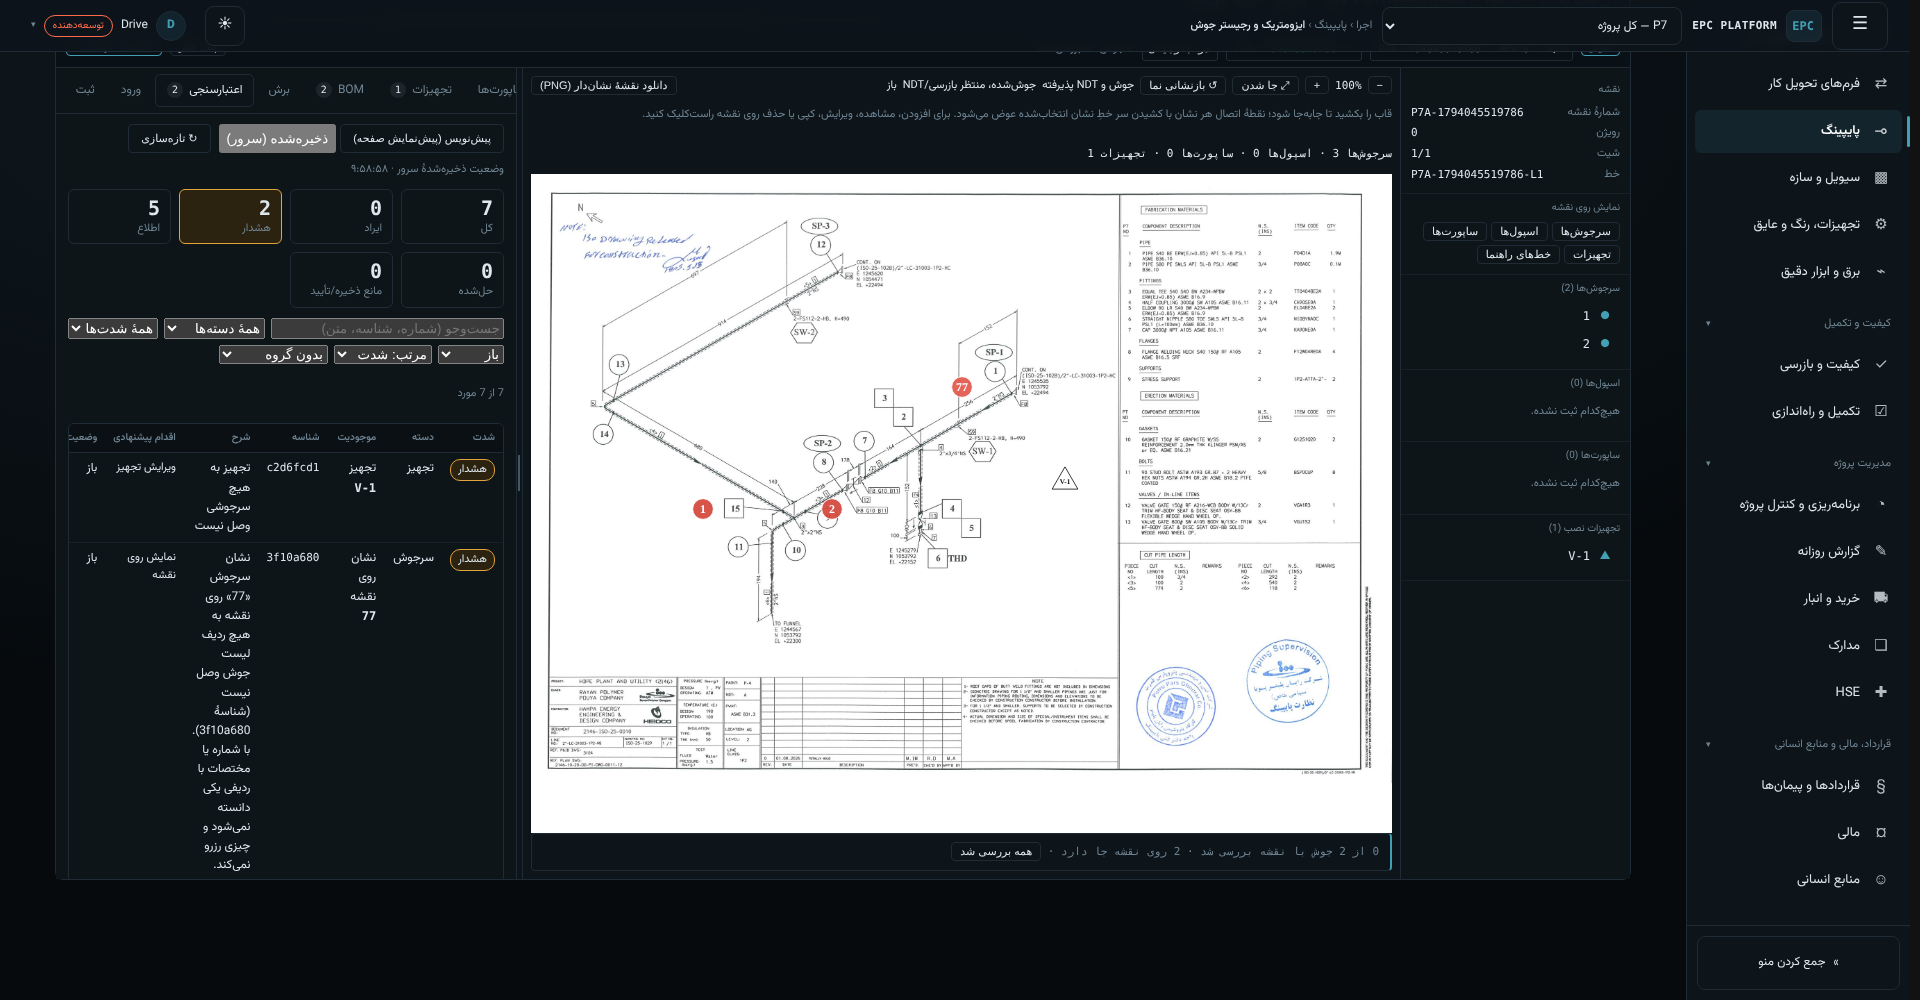
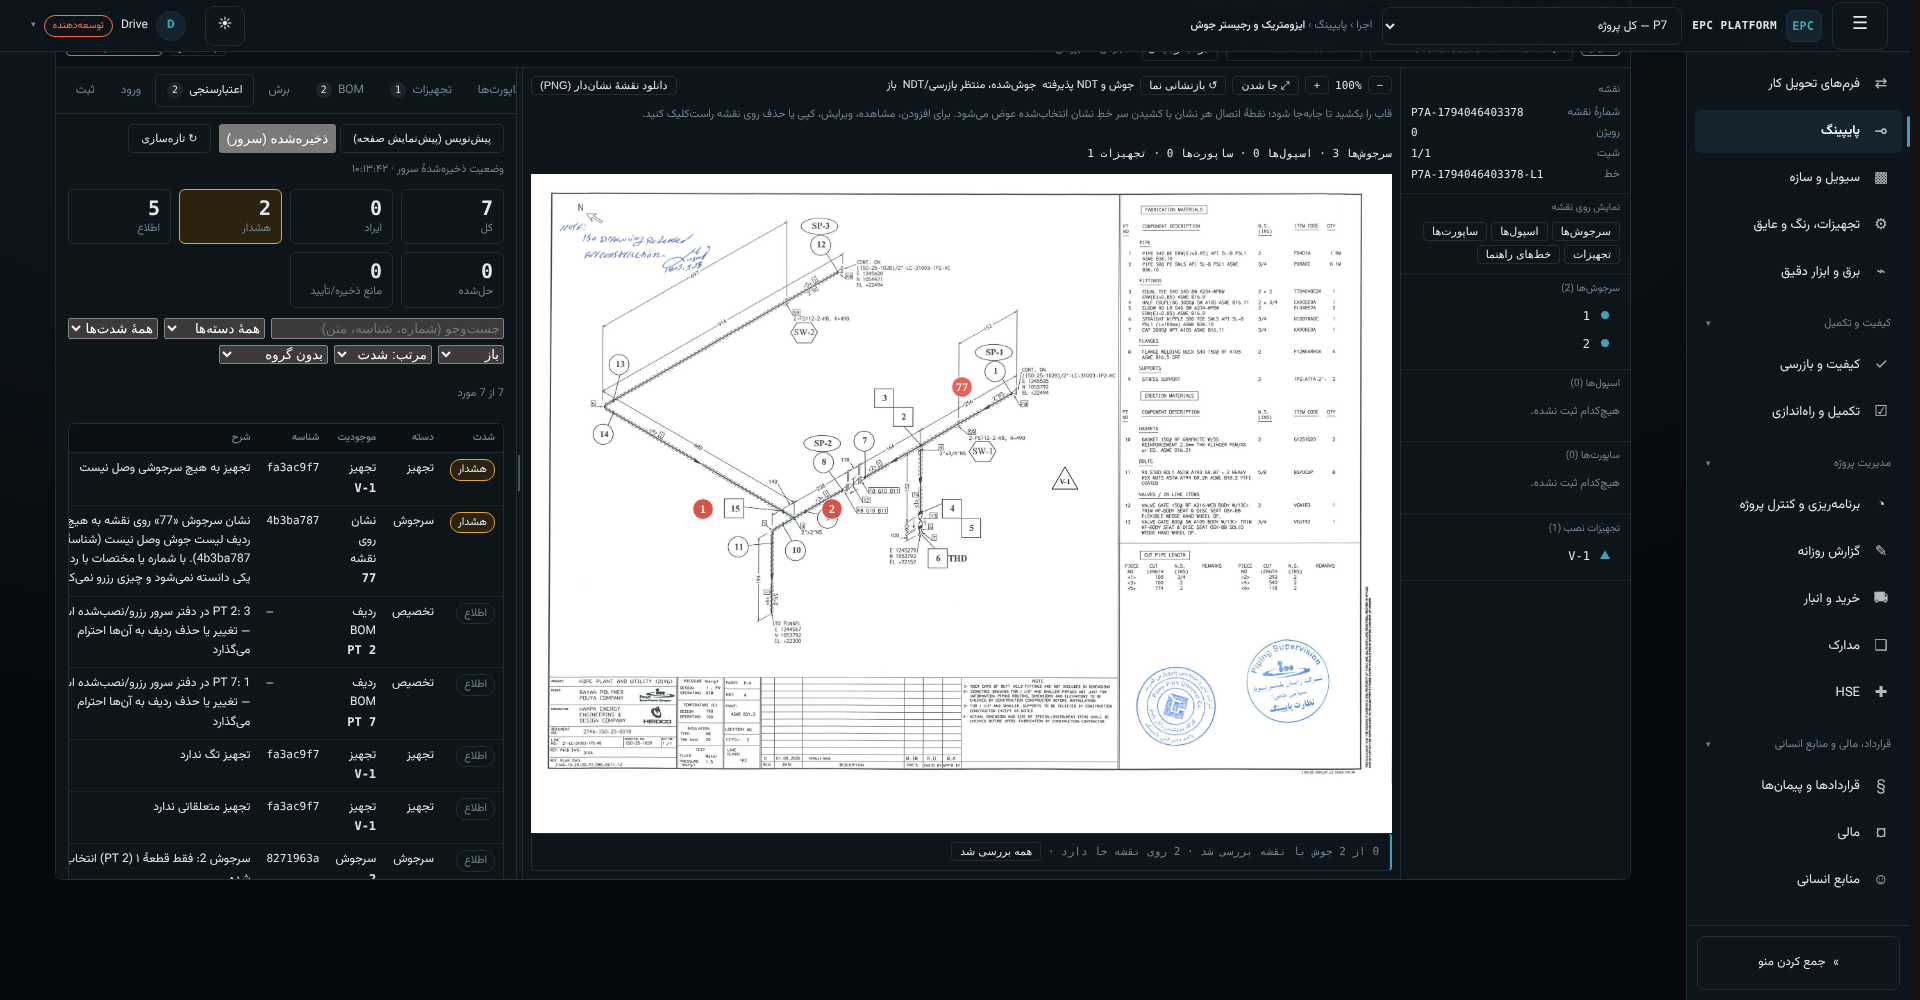
docs(validation): results; screenshots

diff --git a/docs/audit/phase-7-engineering-validation.md b/docs/audit/phase-7-engineering-validation.md
@@ -147,3 +147,11 @@ Severity may be lowered per finding (e.g. a duplicate printed number on a sheet-
 * Preview-vs-saved (`A_PREVIEW_DIFF`) is informational: the draft is a preview, the server's ledger is authoritative, and a save aligns them.
 * Findings are computed on request, not stored (no result table, no cache): there is no invalidation problem to get wrong; cost is one read-only request.
 * Disk note for the session: the container's writable allowance was nearly exhausted by earlier test scratch directories; the shared scratch sweep was not performed.
+
+## 8. Results (this branch)
+* `db/test/engineering-validation.mjs`: 34/34 (24 engine, 10 route-level) on PGlite and on real PostgreSQL. Guards proven by reverting: approved-revision lock (S10 fails), stale `baseHash` (S5, S6 fail), relationship check (S4, S6 fail).
+* `npm run db:test`: the whole chain passes; its one failure on the first run (`area-coverage`: `/api/mark-warnings` unclassified) was fixed in `lib/platform/areas.mjs` and the rest of the chain was then run from that file on (area-coverage 5/5 and the 15 files after it all pass).
+* `npm run db:test:pg`: 8/8, 15/15, 5/5, 3/3. pg-suite: engineering-validation 34/34, weld-bom-equipment 28/28, engineering-crud 16/16, typed-weld-identity 17/17, mark-identity 20/20, workspace-foundation 23/23.
+* `npm run eval:check`: GATE PASSED. `npx next build`: compiled.
+* Browser drive `tools/drive-engineering-validation.mjs`: 26/26 checks, no page errors; screenshots in `docs/audit/phase-7-shots/` (dark, light, phone).
+* Vercel (Phase 6 pending checks): commit e405a16 — 4/4 Vercel statuses success; check runs build/eval/pg-scope/data-layer success; master push workflow run 42360231844 completed success.
